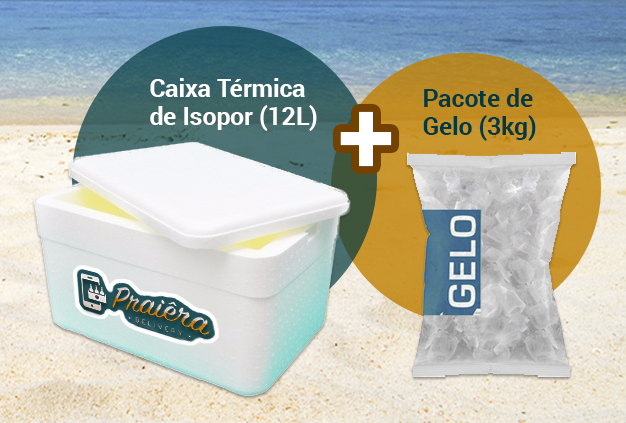
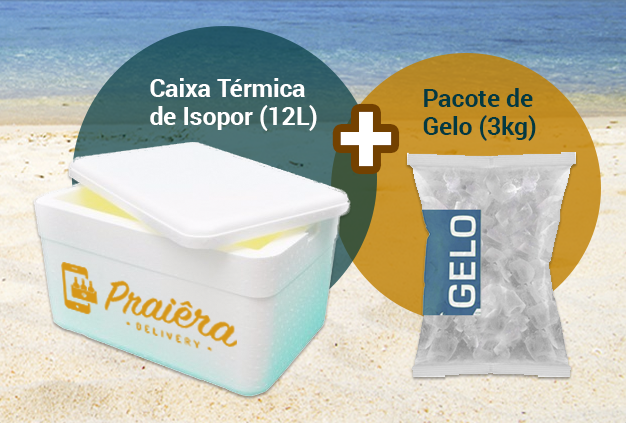
Created how it works page

Changed region(s): [[0.0911, 0.6147, 0.3946, 0.8298]]

diff --git a/AngularJS/Praiera/app/views/ContactUs.html b/AngularJS/Praiera/app/views/ContactUs.html
@@ -1,0 +1,34 @@
+<div class="row" style="background: url(../../img/fundo_obrigado.jpg); background-size: contain">    
+    <div class="row thankyouPadding">
+        <div class="col-md-12 first-heading" style="color: white">
+            <span class="thankyouStrong">Obrigado</span><br />
+            <span class="thankyouLight">
+                &nbsp;&nbsp;
+            </span>
+        </div>
+    </div>
+    <div class="row" style="padding-top:15px; padding-bottom: 15px">
+        <div class="thankyouBox rowHeader">
+            <div class="col-md-4 col-xs-4 col-lg-4 col-xl-4">
+                <span class="helper"></span><img src="../../img/ico_carregador.png" class="img img-responsive" />
+            </div>
+            <div class="col-md-8 col-xs-8 col-lg-8 col-xl-8">                
+                SEU PEDIDO FOI RECEBIDO E JÁ ESTÁ SENDO PREPARADO PARA ENTREGA.
+            </div>
+        </div>
+    </div>
+    <div class="row rowHeader noSideMargins">
+        <div class="footer2" ng-click="homePage()" style="cursor: pointer; background-color: #734200; width: 49.8%">
+            <div class="bottomDiv1">
+                <img src="img/bt_back.png" class="img img-responsive footer-img">
+                <span class="bottomBold">VOLTAR<br> <span class="bottomThin">PARA INÍCIO</span></span>                
+            </div>
+        </div>
+        <div class="thankyoufooter" style="cursor: pointer; width: 49.8%">
+            <div class="bottomDiv2">                             
+                <span class="thankyouText">DÚVIDAS? ENTRE EM CONTATO: <br /><span class="thankyouNumber">(48) 98822-6306</span></span>
+            </div>
+        </div>
+    </div>
+</div>
+

diff --git a/AngularJS/Praiera/app/controllers/HowController.js b/AngularJS/Praiera/app/controllers/HowController.js
@@ -1,0 +1,61 @@
+'use strict';
+app.controller('HowController', ['$scope', '$location',
+    function ($scope, $location) {
+        //$scope.myInterval = 5000;
+        //$scope.noWrapSlides = false;
+        //$scope.active = 0;
+        //$scope.slides = [{
+        //    image: '/img/img_passo1.png',
+        //    text: '',
+        //    id: 1
+        //}, {
+        //    image: '/img/img_passo2.png',
+        //    text: '',
+        //    id: 2
+        //}, {
+        //    image: '/img/img_passo3.png',
+        //    text: '',
+        //    id: 3
+        //}, {
+        //    image: '/img/img_passo4.png',
+        //    text: '',
+        //    id: 4
+        //}];
+        //var currIndex = 0;
+
+        $scope.myInterval = 5000;
+        $scope.noWrapSlides = false;
+        $scope.active = 0;
+        var slides = $scope.slides = [];
+        var currIndex = 0;
+
+        var myArr = [{
+            image: 'img/img_passo1.png',
+            text: '',
+            id: 1
+        },{
+            image: 'img/img_passo2.png',
+            text: '',
+            id: 2
+        },{
+            image: 'img/img_passo3.png',
+            text: '',
+            id: 3
+        },{
+            image: 'img/img_passo4.png',
+            text: '',
+            id: 4
+        }];
+
+        $scope.addSlide = function () {
+            var newWidth = 600 + slides.length + 1;
+            slides.push(myArr[currIndex++]);
+        };
+
+
+        for (var i = 0; i < 4; i++) {
+            $scope.addSlide();
+        }
+
+    }
+]);

diff --git a/AngularJS/Praiera/app/views/How.html b/AngularJS/Praiera/app/views/How.html
@@ -1,0 +1,32 @@
+<style>
+    .carousel-indicators {
+        bottom: -40px !important;
+    }
+</style>
+<div class="row" style="background-color: #012C32">  
+    <div class="row headingPadding">
+        <div class="col-md-12 first-heading">
+            <h3 style="color:white">Como funciona?</h3>
+        </div>
+    </div>  
+    <div class="row" style="padding:20px !important">
+        <div class="col-md-12 first-heading" style="color: white">
+            <div style="height: 305px">
+                <div uib-carousel active="active" interval="myInterval" no-wrap="noWrapSlides">
+                    <div uib-slide ng-repeat="slide in slides track by slide.id" index="$index">
+                        <img ng-src="{{slide.image}}" style="margin:auto;">
+                        <div class="carousel-caption">
+                            <p>{{slide.text}}</p>
+                        </div>
+                    </div>
+                </div>
+            </div>            
+            <div class="row" style="margin-top:85px; color: white">
+                <span style="font-family='Roboto-Thin'">
+                    <small>* Por enquanto entregamos apenas no bairro Ingleses em Florianópolis, SC.</small>
+                </span>
+            </div>
+        </div>
+    </div>
+</div>
+

diff --git a/AngularJS/Praiera/styles/style.css b/AngularJS/Praiera/styles/style.css
@@ -408,7 +408,6 @@ a {
   font-size: 2rem;
   font-weight: 100;
   height: 100%;
-  text-align: center;
   text-decoration: none;
 }
 .menu-link li {
@@ -485,14 +484,14 @@ a {
 #menu {
   position: absolute;
   color: #999;
-  width: 200px;
-  padding: 10px;
+  width: 170px;
+  padding: 3px;
   margin: auto;
-  font-family: 'Roboto', sans-serif;
-  text-align: center;
+  font-family: 'Roboto-Normal', sans-serif;
   border-radius: 4px;
   background: white;
   box-shadow: 0 1px 8px rgba(0,0,0,0.05);
+  font-size: 14px;
   /* just for this demo */
   opacity: 0;
   visibility: hidden;
@@ -508,6 +507,10 @@ a {
   border-right: 15px solid transparent;
   border-bottom: 20px solid white;
 }
+#menu li {
+    padding: 10px;
+    border-bottom: 1px solid #DDDDDD
+}
 ul, li, li a {
   list-style: none;
   display: block;
@@ -522,7 +525,7 @@ li a {
 }
 li a:hover,
 li a:focus {
-  background: #1ABC9C;
+  background: #D69719;
   color: #fff;
 }
 

diff --git a/AngularJS/Praiera/app/app.js b/AngularJS/Praiera/app/app.js
@@ -1,4 +1,4 @@
-var app = angular.module('Praiera', ['ngRoute', 'ngSanitize', 'ui.bootstrap', 'ngDialog']);
+var app = angular.module('Praiera', ['ngRoute', 'ngSanitize', 'ui.bootstrap', 'ngDialog', 'ngTouch']);
 
 app.run(function ($rootScope, ngDialog) {
     $rootScope.isProcessing = false;
@@ -63,6 +63,16 @@ app.config(function ($routeProvider) {
     $routeProvider.when("/thankyou", {
         controller: "ThankYouController",
         templateUrl: "/app/views/ThankYou.html"
+    });
+
+    $routeProvider.when("/howitworks", {
+        controller: "HowController",
+        templateUrl: "/app/views/how.html"
+    });
+
+    $routeProvider.when("/contactus", {
+        controller: "ContactUsController",
+        templateUrl: "/app/views/ContactUs.html"
     });
 
     $routeProvider.otherwise({ redirectTo: "/firststep" });

diff --git a/AngularJS/Praiera/app/controllers/IndexController.js b/AngularJS/Praiera/app/controllers/IndexController.js
@@ -25,5 +25,20 @@ app.controller('IndexController', ['$scope', '$location', '$window', 'mainServic
             if ($location.absUrl().indexOf('localhost') == -1)
                 $window.ga('send', 'pageview', { page: $location.url() });
         });
+
+        $scope.goHome = function () {
+            document.getElementById('toggle').click();
+            $location.path('firststep');
+        }
+
+        $scope.goHow = function () {
+            document.getElementById('toggle').click();
+            $location.path('howitworks');
+        }
+
+        $scope.goContact = function () {
+            document.getElementById('toggle').click();
+            $location.path('contactus');
+        }
     }
 ]);
